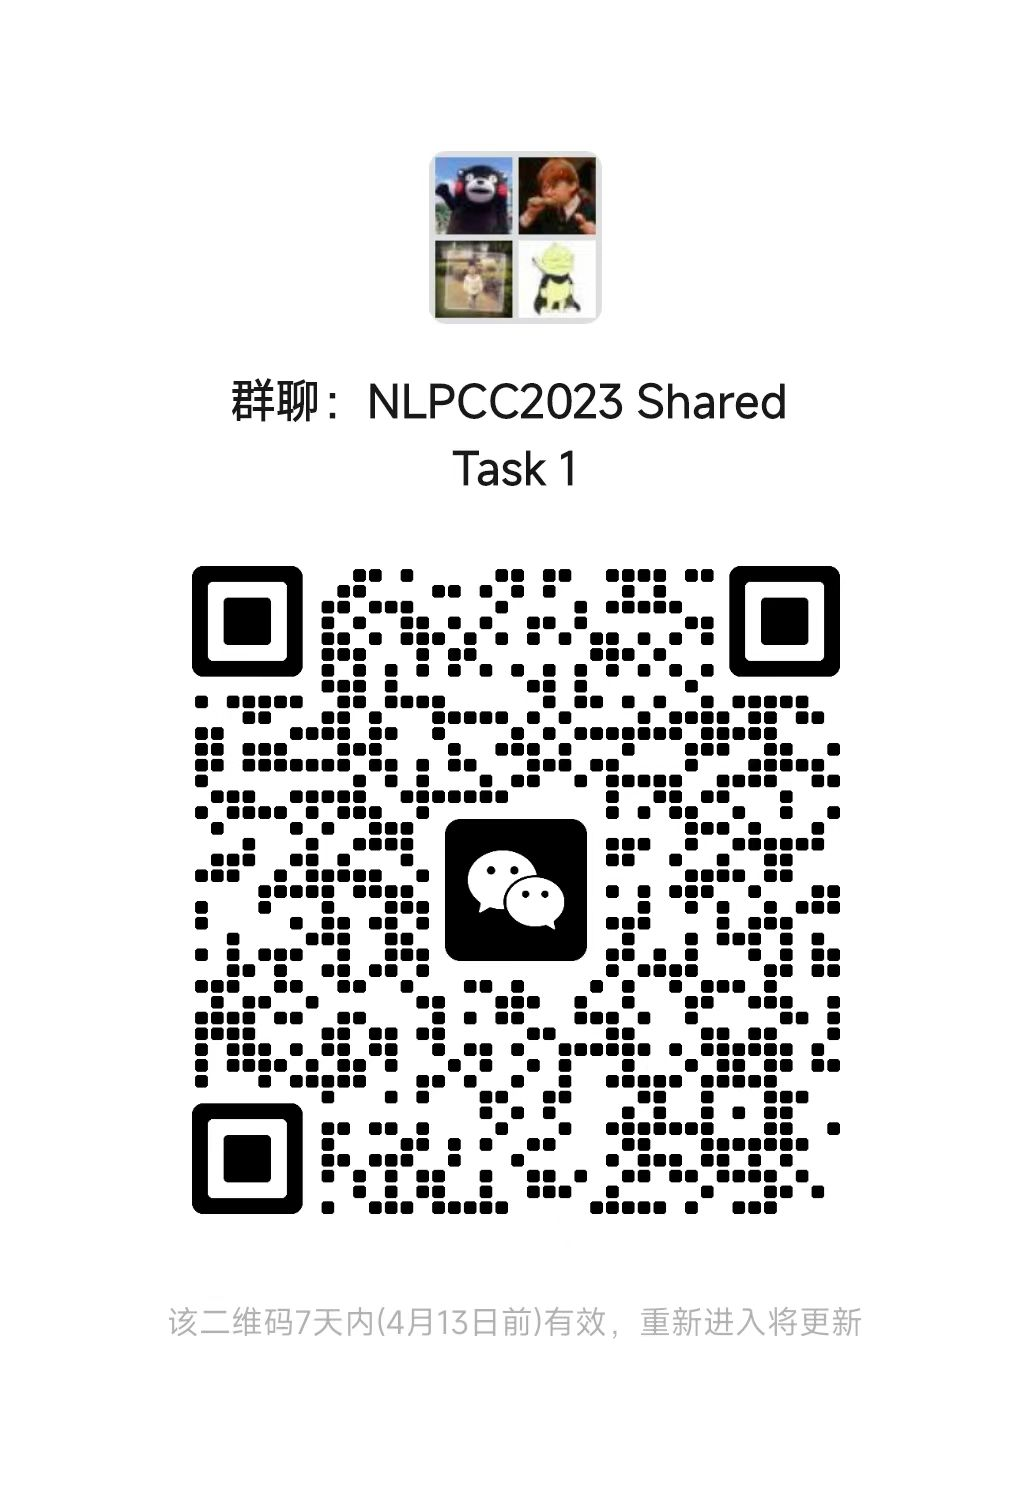
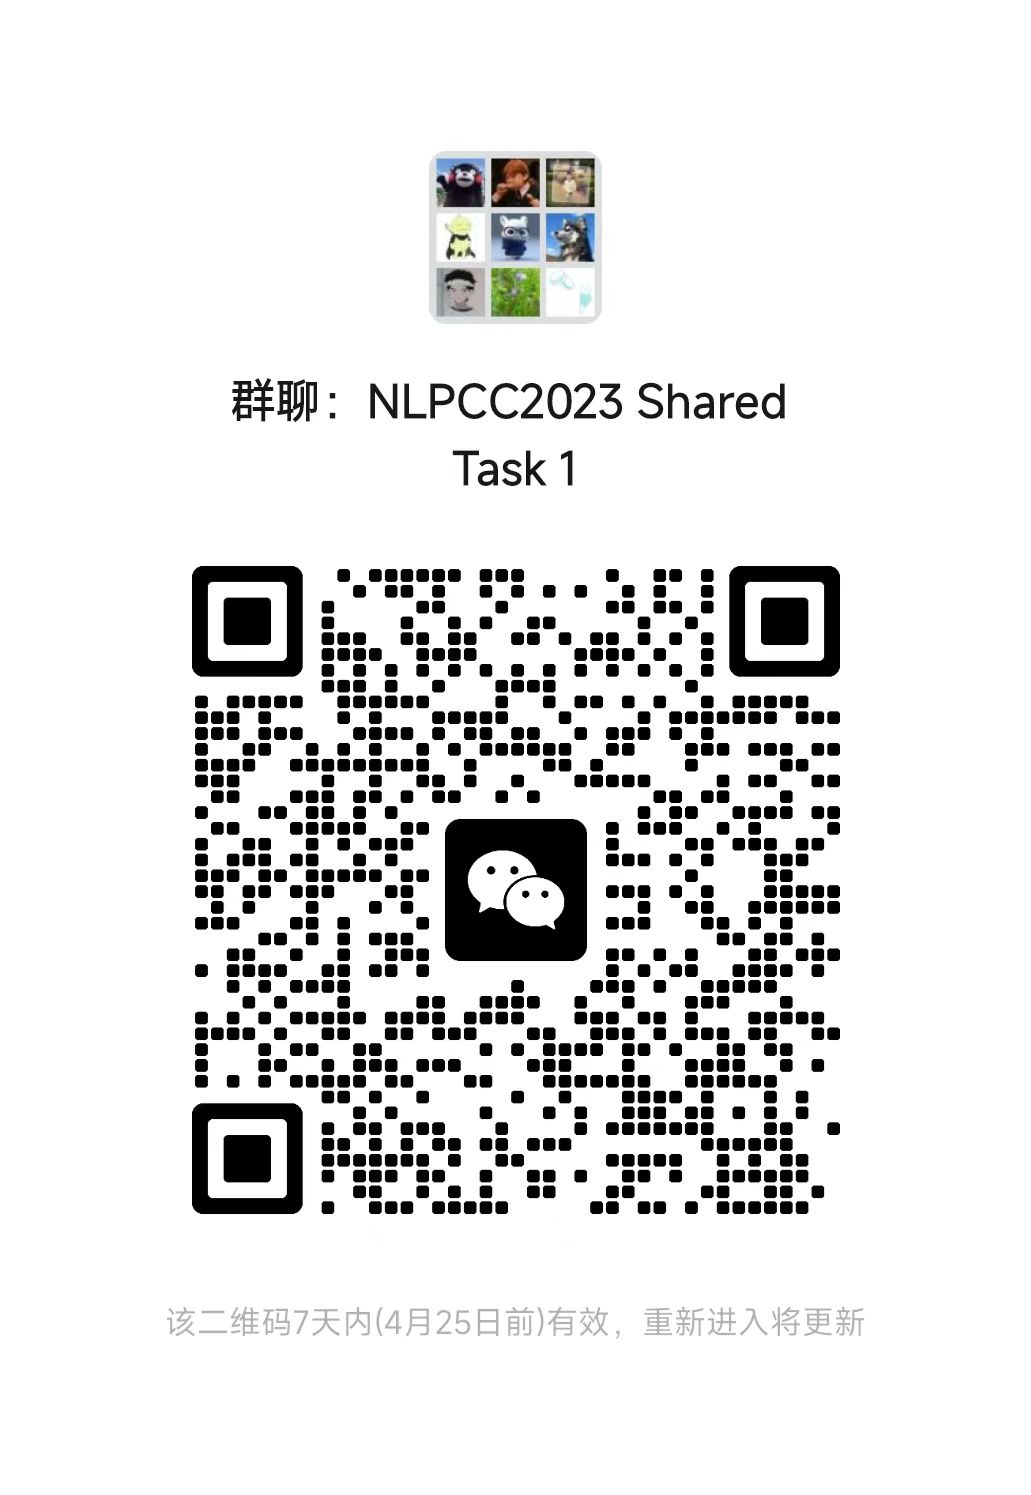
update participants & qrcode

diff --git a/README.md b/README.md
@@ -24,7 +24,7 @@ We provide a CGEC benchmark named *NaCGEC*, which focuses on grammatical errors 
 - Validation: `nacgec.dev.ref.para` (put in `data`) includes 500 sentences and corresponding correct sentences sampled from the original dataset. **The validation set can be utilized for model performance testing and hyper-parameter tuning, but it cannot be directly used for model training. Each line of `nacgec.dev.ref.para` contains one training sample, and the format of a line is `<id>\t<source>\t<target1>\t<target2>...\n`. If `<target1>` and `<source>` in a line are the same, the `<source>` does not contain grammatical errors.**
 - Test: `nacgec.test.input` (will be released at 05/21) includes 5869 sentences that may contain grammatical errors. Participants should use CGEC model to detect and correct each sentence and output the correct sentence.
 
-**For model training, only the data provided by [this link](https://cloud.tsinghua.edu.cn/f/9e46b10b52564736b0f3/) is allowed to be used as supervised data, i.e, parallel data, which includes [Lang8](http://tcci.ccf.org.cn/conference/2018/taskdata.php), [HSK](https://cloud.tsinghua.edu.cn/f/9e46b10b52564736b0f3/),  [CGED](https://github.com/blcuicall/cged_datasets), [MuCGEC](https://github.com/HillZhang1999/MuCGEC), [YACLC](https://github.com/blcuicall/YACLC) and [CTC2021](https://github.com/destwang/CTC2021), in this shared task. When using these data, please follow the rules set by the original data publisher.** Meanwhile, **for unsupervised data, any corpus publicly available on the web is allowed to be used. **Based on unsupervised data, participants can use any data augmentation methods, such as [our work](https://github.com/masr2000/CLG-CGEC) or other methods, to construct pseudo-parallel data for model training.
+**For model training, only the data provided by [this link](https://cloud.tsinghua.edu.cn/f/9e46b10b52564736b0f3/) is allowed to be used as supervised data, i.e, parallel data, which includes [Lang8](http://tcci.ccf.org.cn/conference/2018/taskdata.php), [HSK](https://cloud.tsinghua.edu.cn/f/9e46b10b52564736b0f3/),  [CGED](https://github.com/blcuicall/cged_datasets), [MuCGEC](https://github.com/HillZhang1999/MuCGEC), [YACLC](https://github.com/blcuicall/YACLC) and [CTC2021](https://github.com/destwang/CTC2021), in this shared task. When using these data, please follow the rules set by the original data publisher.** Meanwhile, **for unsupervised data, any corpus publicly available on the web is allowed to be used.** Based on unsupervised data, participants can use any data augmentation methods, such as [our work](https://github.com/masr2000/CLG-CGEC) or other methods, to construct pseudo-parallel data for model training.
 
 For more information related to this dataset, please refer to our paper: [Linguistic Rules-Based Corpus Generation for Native Chinese Grammatical Error Correction](https://arxiv.org/pdf/2210.10442.pdf). If there are any differences between the paper and this page, the content of this page should prevail.
 
@@ -45,20 +45,21 @@ The top 3 participating teams will be certificated by NLPCC and CCF-NLP.
 
 ## Participants
 
-| Team ID | Organization                                                 | System Name  |
-| ------- | ------------------------------------------------------------ | ------------ |
-| 1       | Natural language processing laboratory of zhengzhou university | ZZUNLP       |
-| 2       | MOE Key Laboratory of Computational Linguistics, School of Computer Science, Peking University | CGEC先遣队   |
-| 3       | NanKai University, College of Computer Science, DBIS         | NLP Beginner |
-| 4       | Harbin Institute of Technology, Shenzhen ; School of Computer Science and Technology ; HappyTrans@HITsz | HappyTrans   |
-| 5       | School of Computer Science & Technology, Beijing Institute of Technology | zhao jia     |
-| 6       | Wangxuan Institute of Computer Technology, Peking University | PKU-WICT     |
-| 7       | 杭州十域科技有限公司                                         | jojolee      |
-| 8       | 北京大学                                                     | 鱼饼啾啾Plus |
-| 9       | Beihang University                                           | BUAA NLP     |
-| 10      | 上海哔哩哔哩科技有限公司                                     | chole        |
-| 11      | Beijing Normal University, School of Artificial Intelligence, The Language and Character Resources Research Center of Beijing Normal University | Lrt123       |
-| 12      | Yunnan University                                            | YNU-HPCC     |
+| Team ID | Organization                                                 | System Name           |
+| ------- | ------------------------------------------------------------ | --------------------- |
+| 1       | Natural language processing laboratory of zhengzhou university | ZZUNLP                |
+| 2       | MOE Key Laboratory of Computational Linguistics, School of Computer Science, Peking University | CGEC先遣队            |
+| 3       | NanKai University, College of Computer Science, DBIS         | NLP Beginner          |
+| 4       | Harbin Institute of Technology, Shenzhen ; School of Computer Science and Technology ; HappyTrans@HITsz | HappyTrans            |
+| 5       | School of Computer Science & Technology, Beijing Institute of Technology | zhao jia              |
+| 6       | Wangxuan Institute of Computer Technology, Peking University | PKU-WICT              |
+| 7       | 杭州十域科技有限公司                                         | jojolee               |
+| 8       | 北京大学                                                     | 鱼饼啾啾Plus          |
+| 9       | Beihang University                                           | BUAA NLP              |
+| 10      | 上海哔哩哔哩科技有限公司                                     | chole                 |
+| 11      | Beijing Normal University, School of Artificial Intelligence, The Language and Character Resources Research Center of Beijing Normal University | Lrt123                |
+| 12      | Yunnan University                                            | YNU-HPCC              |
+| 13      | Huawei Translation Services Center                           | HW_TSC_nlpcc2023_cgec |
 
 ## Contact & Citation
 
